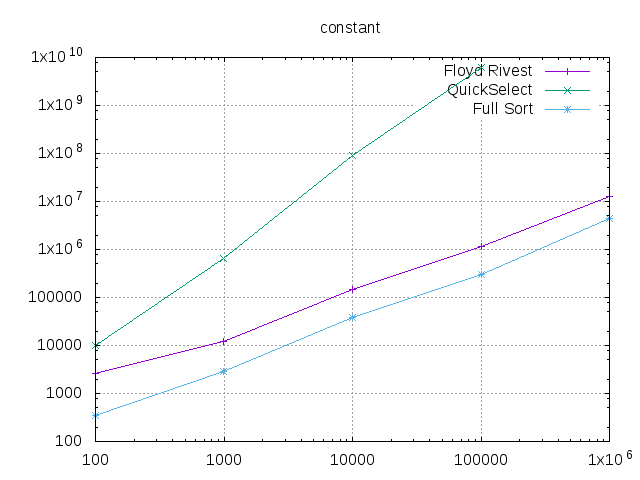
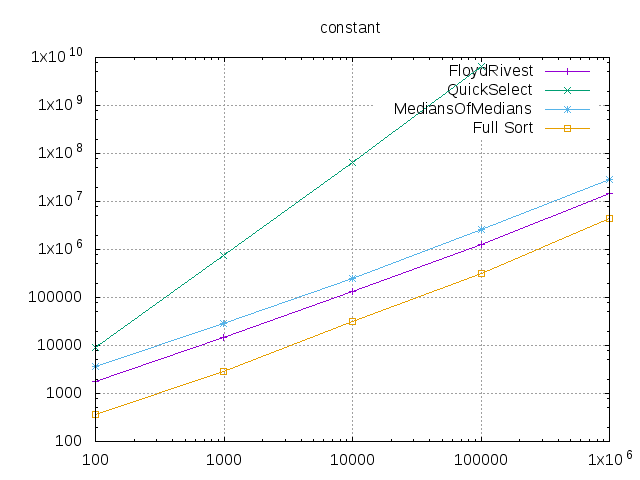
Add benchmarks for medians of medians

diff --git a/select_test.go b/select_test.go
@@ -56,7 +56,7 @@ func TestSelect_RandomArray (t * testing.T) {
 		},
 	}
 	for _, tc := range(testCases) {
-		nTests := 100
+		nTests := 20
 		for j := 0; j < nTests; j++ {
 			rand.Shuffle(len(a), func (i, j int) { a[i], a[j] = a[j], a[i] })
 			k := rand.Intn(len(a))

diff --git a/benchmark.md b/benchmark.md
@@ -1,91 +1,206 @@
 === RUN   TestSelect_BigArray
---- PASS: TestSelect_BigArray (2.13s)
+--- PASS: TestSelect_BigArray (2.03s)
 === RUN   TestSelect_RandomArray
---- FAIL: TestSelect_RandomArray (66.39s)
-    select_test.go:70: 
-        	Error Trace:	select_test.go:70
-        	Error:      	"%!s(int=5389254814162421340)" is not less or equal than "%!s(int=5164863782347237470)"
-        	Test:       	TestSelect_RandomArray
-    select_test.go:70: 
-        	Error Trace:	select_test.go:70
-        	Error:      	"%!s(int=3118384944041396407)" is not less or equal than "%!s(int=2948836900908679142)"
-        	Test:       	TestSelect_RandomArray
-    select_test.go:70: 
-        	Error Trace:	select_test.go:70
-        	Error:      	"%!s(int=5953651636353248300)" is not less or equal than "%!s(int=5953530255220003592)"
-        	Test:       	TestSelect_RandomArray
-    select_test.go:70: 
-        	Error Trace:	select_test.go:70
-        	Error:      	"%!s(int=5953651636353248300)" is not less or equal than "%!s(int=5887014842952965249)"
-        	Test:       	TestSelect_RandomArray
-    select_test.go:70: 
-        	Error Trace:	select_test.go:70
-        	Error:      	"%!s(int=5953651636353248300)" is not less or equal than "%!s(int=5891386772955824244)"
-        	Test:       	TestSelect_RandomArray
-    select_test.go:70: 
-        	Error Trace:	select_test.go:70
-        	Error:      	"%!s(int=354232545416404265)" is not less or equal than "%!s(int=351851047634048351)"
-        	Test:       	TestSelect_RandomArray
-    select_test.go:70: 
-        	Error Trace:	select_test.go:70
-        	Error:      	"%!s(int=6761986450204672517)" is not less or equal than "%!s(int=6761966678798676648)"
-        	Test:       	TestSelect_RandomArray
-    select_test.go:70: 
-        	Error Trace:	select_test.go:70
-        	Error:      	"%!s(int=6761986450204672517)" is not less or equal than "%!s(int=6659883027188078230)"
-        	Test:       	TestSelect_RandomArray
-    select_test.go:70: 
-        	Error Trace:	select_test.go:70
-        	Error:      	"%!s(int=6761986450204672517)" is not less or equal than "%!s(int=6406147687509410899)"
-        	Test:       	TestSelect_RandomArray
-    select_test.go:70: 
-        	Error Trace:	select_test.go:70
-        	Error:      	"%!s(int=8009354465552415646)" is not less or equal than "%!s(int=8003305591569397797)"
-        	Test:       	TestSelect_RandomArray
-    select_test.go:70: 
-        	Error Trace:	select_test.go:70
-        	Error:      	"%!s(int=8009354465552415646)" is not less or equal than "%!s(int=7816652851507926363)"
-        	Test:       	TestSelect_RandomArray
-    select_test.go:70: 
-        	Error Trace:	select_test.go:70
-        	Error:      	"%!s(int=6300501910532918856)" is not less or equal than "%!s(int=6296812723251062414)"
-        	Test:       	TestSelect_RandomArray
-    select_test.go:70: 
-        	Error Trace:	select_test.go:70
-        	Error:      	"%!s(int=7824293861803103776)" is not less or equal than "%!s(int=7823653005258300070)"
-        	Test:       	TestSelect_RandomArray
-    select_test.go:70: 
-        	Error Trace:	select_test.go:70
-        	Error:      	"%!s(int=4009327531050688858)" is not less or equal than "%!s(int=4008673713754862780)"
-        	Test:       	TestSelect_RandomArray
-    select_test.go:70: 
-        	Error Trace:	select_test.go:70
-        	Error:      	"%!s(int=4009327531050688858)" is not less or equal than "%!s(int=3750184133117793329)"
-        	Test:       	TestSelect_RandomArray
-    select_test.go:70: 
-        	Error Trace:	select_test.go:70
-        	Error:      	"%!s(int=7586385922064144189)" is not less or equal than "%!s(int=7586156523314073358)"
-        	Test:       	TestSelect_RandomArray
-    select_test.go:70: 
-        	Error Trace:	select_test.go:70
-        	Error:      	"%!s(int=8067333151748571251)" is not less or equal than "%!s(int=7863644404762597036)"
-        	Test:       	TestSelect_RandomArray
-    select_test.go:70: 
-        	Error Trace:	select_test.go:70
-        	Error:      	"%!s(int=5322964438956385452)" is not less or equal than "%!s(int=5309204099924948343)"
-        	Test:       	TestSelect_RandomArray
-    select_test.go:70: 
-        	Error Trace:	select_test.go:70
-        	Error:      	"%!s(int=2769079055563605479)" is not less or equal than "%!s(int=2634666321687766585)"
-        	Test:       	TestSelect_RandomArray
+--- PASS: TestSelect_RandomArray (202.90s)
 === RUN   TestSelect_ConcreteExamples
 --- PASS: TestSelect_ConcreteExamples (0.00s)
 === RUN   TestBucketsSize1
 --- PASS: TestBucketsSize1 (0.00s)
 === RUN   TestBucketsBig
---- PASS: TestBucketsBig (0.55s)
+--- PASS: TestBucketsBig (0.35s)
 === RUN   TestSelectVariousIndices
 --- PASS: TestSelectVariousIndices (0.00s)
-FAIL
-exit status 1
-FAIL	_/home/gabi/Gabi/apps/FloydRivest	69.083s
+goos: linux
+goarch: amd64
+BenchmarkBuckets/Size_100/Buckets_2/sorted/FloydRivest-4         	 5000000	       329 ns/op
+BenchmarkBuckets/Size_100/Buckets_2/sorted/QuickSelect-4         	 3000000	       500 ns/op
+BenchmarkBuckets/Size_100/Buckets_2/sorted/MediansOfMedians-4    	 1000000	      1938 ns/op
+BenchmarkBuckets/Size_100/Buckets_2/sorted/Full_Sort-4           	 1000000	      1020 ns/op
+BenchmarkBuckets/Size_100/Buckets_2/inverted/FloydRivest-4       	 3000000	       614 ns/op
+BenchmarkBuckets/Size_100/Buckets_2/inverted/QuickSelect-4       	 5000000	       393 ns/op
+BenchmarkBuckets/Size_100/Buckets_2/inverted/MediansOfMedians-4  	  500000	      2250 ns/op
+BenchmarkBuckets/Size_100/Buckets_2/inverted/Full_Sort-4         	 1000000	      1212 ns/op
+BenchmarkBuckets/Size_100/Buckets_2/constant/FloydRivest-4       	 3000000	       623 ns/op
+BenchmarkBuckets/Size_100/Buckets_2/constant/QuickSelect-4       	  300000	      4784 ns/op
+BenchmarkBuckets/Size_100/Buckets_2/constant/MediansOfMedians-4  	 2000000	       971 ns/op
+BenchmarkBuckets/Size_100/Buckets_2/constant/Full_Sort-4         	 5000000	       356 ns/op
+BenchmarkBuckets/Size_100/Buckets_2/sawLike/FloydRivest-4        	 1000000	      2070 ns/op
+BenchmarkBuckets/Size_100/Buckets_2/sawLike/QuickSelect-4        	  200000	      5982 ns/op
+BenchmarkBuckets/Size_100/Buckets_2/sawLike/MediansOfMedians-4   	 1000000	      2376 ns/op
+BenchmarkBuckets/Size_100/Buckets_2/sawLike/Full_Sort-4          	 1000000	      1745 ns/op
+BenchmarkBuckets/Size_100/Buckets_2/pyramid/FloydRivest-4        	  500000	      2129 ns/op
+BenchmarkBuckets/Size_100/Buckets_2/pyramid/QuickSelect-4        	  300000	      4006 ns/op
+BenchmarkBuckets/Size_100/Buckets_2/pyramid/MediansOfMedians-4   	  500000	      2276 ns/op
+BenchmarkBuckets/Size_100/Buckets_2/pyramid/Full_Sort-4          	 1000000	      1679 ns/op
+BenchmarkBuckets/Size_1000/Buckets_2/sorted/FloydRivest-4        	 1000000	      2179 ns/op
+BenchmarkBuckets/Size_1000/Buckets_2/sorted/QuickSelect-4        	  500000	      3380 ns/op
+BenchmarkBuckets/Size_1000/Buckets_2/sorted/MediansOfMedians-4   	  100000	     18503 ns/op
+BenchmarkBuckets/Size_1000/Buckets_2/sorted/Full_Sort-4          	  100000	     16038 ns/op
+BenchmarkBuckets/Size_1000/Buckets_2/inverted/FloydRivest-4      	  300000	      5283 ns/op
+BenchmarkBuckets/Size_1000/Buckets_2/inverted/QuickSelect-4      	  500000	      2340 ns/op
+BenchmarkBuckets/Size_1000/Buckets_2/inverted/MediansOfMedians-4 	   50000	     23069 ns/op
+BenchmarkBuckets/Size_1000/Buckets_2/inverted/Full_Sort-4        	  100000	     17628 ns/op
+BenchmarkBuckets/Size_1000/Buckets_2/constant/FloydRivest-4      	  300000	      5345 ns/op
+BenchmarkBuckets/Size_1000/Buckets_2/constant/QuickSelect-4      	    3000	    396092 ns/op
+BenchmarkBuckets/Size_1000/Buckets_2/constant/MediansOfMedians-4 	  200000	      8047 ns/op
+BenchmarkBuckets/Size_1000/Buckets_2/constant/Full_Sort-4        	  500000	      2980 ns/op
+BenchmarkBuckets/Size_1000/Buckets_2/sawLike/FloydRivest-4       	  100000	     18327 ns/op
+BenchmarkBuckets/Size_1000/Buckets_2/sawLike/QuickSelect-4       	  100000	     19245 ns/op
+BenchmarkBuckets/Size_1000/Buckets_2/sawLike/MediansOfMedians-4  	   50000	     28361 ns/op
+BenchmarkBuckets/Size_1000/Buckets_2/sawLike/Full_Sort-4         	  100000	     22470 ns/op
+BenchmarkBuckets/Size_1000/Buckets_2/pyramid/FloydRivest-4       	  100000	     15825 ns/op
+BenchmarkBuckets/Size_1000/Buckets_2/pyramid/QuickSelect-4       	    5000	    333007 ns/op
+BenchmarkBuckets/Size_1000/Buckets_2/pyramid/MediansOfMedians-4  	  100000	     22223 ns/op
+BenchmarkBuckets/Size_1000/Buckets_2/pyramid/Full_Sort-4         	   50000	     24113 ns/op
+BenchmarkBuckets/Size_10000/Buckets_2/sorted/FloydRivest-4       	  100000	     19064 ns/op
+BenchmarkBuckets/Size_10000/Buckets_2/sorted/QuickSelect-4       	   50000	     31898 ns/op
+BenchmarkBuckets/Size_10000/Buckets_2/sorted/MediansOfMedians-4  	    5000	    219732 ns/op
+BenchmarkBuckets/Size_10000/Buckets_2/sorted/Full_Sort-4         	    5000	    211897 ns/op
+BenchmarkBuckets/Size_10000/Buckets_2/inverted/FloydRivest-4     	   20000	     59667 ns/op
+BenchmarkBuckets/Size_10000/Buckets_2/inverted/QuickSelect-4     	  100000	     22277 ns/op
+BenchmarkBuckets/Size_10000/Buckets_2/inverted/MediansOfMedians-4         	    5000	    295454 ns/op
+BenchmarkBuckets/Size_10000/Buckets_2/inverted/Full_Sort-4                	   10000	    221310 ns/op
+BenchmarkBuckets/Size_10000/Buckets_2/constant/FloydRivest-4              	   30000	     51348 ns/op
+BenchmarkBuckets/Size_10000/Buckets_2/constant/QuickSelect-4              	      30	  38859274 ns/op
+BenchmarkBuckets/Size_10000/Buckets_2/constant/MediansOfMedians-4         	   20000	     83674 ns/op
+BenchmarkBuckets/Size_10000/Buckets_2/constant/Full_Sort-4                	   50000	     30528 ns/op
+BenchmarkBuckets/Size_10000/Buckets_2/sawLike/FloydRivest-4               	   10000	    170711 ns/op
+BenchmarkBuckets/Size_10000/Buckets_2/sawLike/QuickSelect-4               	    2000	    831234 ns/op
+BenchmarkBuckets/Size_10000/Buckets_2/sawLike/MediansOfMedians-4          	    3000	    417693 ns/op
+BenchmarkBuckets/Size_10000/Buckets_2/sawLike/Full_Sort-4                 	    3000	    395053 ns/op
+BenchmarkBuckets/Size_10000/Buckets_2/pyramid/FloydRivest-4               	   10000	    155860 ns/op
+BenchmarkBuckets/Size_10000/Buckets_2/pyramid/QuickSelect-4               	      50	  33136637 ns/op
+BenchmarkBuckets/Size_10000/Buckets_2/pyramid/MediansOfMedians-4          	    5000	    289409 ns/op
+BenchmarkBuckets/Size_10000/Buckets_2/pyramid/Full_Sort-4                 	    3000	    475837 ns/op
+BenchmarkBuckets/Size_100000/Buckets_2/sorted/FloydRivest-4               	   10000	    180758 ns/op
+BenchmarkBuckets/Size_100000/Buckets_2/sorted/QuickSelect-4               	    5000	    316600 ns/op
+BenchmarkBuckets/Size_100000/Buckets_2/sorted/MediansOfMedians-4          	     500	   2248004 ns/op
+BenchmarkBuckets/Size_100000/Buckets_2/sorted/Full_Sort-4                 	     500	   2675388 ns/op
+BenchmarkBuckets/Size_100000/Buckets_2/inverted/FloydRivest-4             	    3000	    531945 ns/op
+BenchmarkBuckets/Size_100000/Buckets_2/inverted/QuickSelect-4             	   10000	    219878 ns/op
+BenchmarkBuckets/Size_100000/Buckets_2/inverted/MediansOfMedians-4        	     500	   2934989 ns/op
+BenchmarkBuckets/Size_100000/Buckets_2/inverted/Full_Sort-4               	     500	   2720577 ns/op
+BenchmarkBuckets/Size_100000/Buckets_2/constant/FloydRivest-4             	    3000	    502491 ns/op
+BenchmarkBuckets/Size_100000/Buckets_2/constant/QuickSelect-4             	       1	3838834966 ns/op
+BenchmarkBuckets/Size_100000/Buckets_2/constant/MediansOfMedians-4        	    2000	    818808 ns/op
+BenchmarkBuckets/Size_100000/Buckets_2/constant/Full_Sort-4               	    5000	    339545 ns/op
+BenchmarkBuckets/Size_100000/Buckets_2/sawLike/FloydRivest-4              	    1000	   1530683 ns/op
+BenchmarkBuckets/Size_100000/Buckets_2/sawLike/QuickSelect-4              	      20	  70025528 ns/op
+BenchmarkBuckets/Size_100000/Buckets_2/sawLike/MediansOfMedians-4         	     500	   3763000 ns/op
+BenchmarkBuckets/Size_100000/Buckets_2/sawLike/Full_Sort-4                	     300	   4622953 ns/op
+BenchmarkBuckets/Size_100000/Buckets_2/pyramid/FloydRivest-4              	    1000	   1798858 ns/op
+BenchmarkBuckets/Size_100000/Buckets_2/pyramid/QuickSelect-4              	       1	3283231755 ns/op
+BenchmarkBuckets/Size_100000/Buckets_2/pyramid/MediansOfMedians-4         	     500	   2746343 ns/op
+BenchmarkBuckets/Size_100000/Buckets_2/pyramid/Full_Sort-4                	     300	   5458652 ns/op
+BenchmarkBuckets/Size_1000000/Buckets_2/sorted/FloydRivest-4              	     500	   3194111 ns/op
+BenchmarkBuckets/Size_1000000/Buckets_2/sorted/MediansOfMedians-4         	      50	  24468857 ns/op
+BenchmarkBuckets/Size_1000000/Buckets_2/sorted/Full_Sort-4                	      50	  35273159 ns/op
+BenchmarkBuckets/Size_1000000/Buckets_2/inverted/FloydRivest-4            	     200	   6420309 ns/op
+BenchmarkBuckets/Size_1000000/Buckets_2/inverted/MediansOfMedians-4       	      50	  31913540 ns/op
+BenchmarkBuckets/Size_1000000/Buckets_2/inverted/Full_Sort-4              	      30	  34985199 ns/op
+BenchmarkBuckets/Size_1000000/Buckets_2/constant/FloydRivest-4            	     200	   6756253 ns/op
+BenchmarkBuckets/Size_1000000/Buckets_2/constant/MediansOfMedians-4       	     100	  10429917 ns/op
+BenchmarkBuckets/Size_1000000/Buckets_2/constant/Full_Sort-4              	     300	   4475777 ns/op
+BenchmarkBuckets/Size_1000000/Buckets_2/sawLike/FloydRivest-4             	     100	  17137465 ns/op
+BenchmarkBuckets/Size_1000000/Buckets_2/sawLike/MediansOfMedians-4        	      30	  37368072 ns/op
+BenchmarkBuckets/Size_1000000/Buckets_2/sawLike/Full_Sort-4               	      20	  54626318 ns/op
+BenchmarkBuckets/Size_1000000/Buckets_2/pyramid/FloydRivest-4             	     100	  19629649 ns/op
+BenchmarkBuckets/Size_1000000/Buckets_2/pyramid/MediansOfMedians-4        	      50	  28721116 ns/op
+BenchmarkBuckets/Size_1000000/Buckets_2/pyramid/Full_Sort-4               	      20	  62902046 ns/op
+BenchmarkBuckets/Size_100/Buckets_9/sorted/FloydRivest-4                  	 1000000	      1073 ns/op
+BenchmarkBuckets/Size_100/Buckets_9/sorted/QuickSelect-4                  	 1000000	      1420 ns/op
+BenchmarkBuckets/Size_100/Buckets_9/sorted/MediansOfMedians-4             	  200000	      7251 ns/op
+BenchmarkBuckets/Size_100/Buckets_9/sorted/Full_Sort-4                    	 1000000	      1025 ns/op
+BenchmarkBuckets/Size_100/Buckets_9/inverted/FloydRivest-4                	 1000000	      1427 ns/op
+BenchmarkBuckets/Size_100/Buckets_9/inverted/QuickSelect-4                	 1000000	      2018 ns/op
+BenchmarkBuckets/Size_100/Buckets_9/inverted/MediansOfMedians-4           	  200000	      7309 ns/op
+BenchmarkBuckets/Size_100/Buckets_9/inverted/Full_Sort-4                  	 1000000	      1301 ns/op
+BenchmarkBuckets/Size_100/Buckets_9/constant/FloydRivest-4                	 1000000	      1801 ns/op
+BenchmarkBuckets/Size_100/Buckets_9/constant/QuickSelect-4                	  200000	      9223 ns/op
+BenchmarkBuckets/Size_100/Buckets_9/constant/MediansOfMedians-4           	  500000	      3692 ns/op
+BenchmarkBuckets/Size_100/Buckets_9/constant/Full_Sort-4                  	 5000000	       359 ns/op
+BenchmarkBuckets/Size_100/Buckets_9/sawLike/FloydRivest-4                 	  500000	      3214 ns/op
+BenchmarkBuckets/Size_100/Buckets_9/sawLike/QuickSelect-4                 	  200000	     10575 ns/op
+BenchmarkBuckets/Size_100/Buckets_9/sawLike/MediansOfMedians-4            	  300000	      4816 ns/op
+BenchmarkBuckets/Size_100/Buckets_9/sawLike/Full_Sort-4                   	 1000000	      1723 ns/op
+BenchmarkBuckets/Size_100/Buckets_9/pyramid/FloydRivest-4                 	  500000	      2982 ns/op
+BenchmarkBuckets/Size_100/Buckets_9/pyramid/QuickSelect-4                 	  300000	      5731 ns/op
+BenchmarkBuckets/Size_100/Buckets_9/pyramid/MediansOfMedians-4            	  200000	      6119 ns/op
+BenchmarkBuckets/Size_100/Buckets_9/pyramid/Full_Sort-4                   	 1000000	      1727 ns/op
+BenchmarkBuckets/Size_1000/Buckets_9/sorted/FloydRivest-4                 	  200000	      5793 ns/op
+BenchmarkBuckets/Size_1000/Buckets_9/sorted/QuickSelect-4                 	  200000	      9146 ns/op
+BenchmarkBuckets/Size_1000/Buckets_9/sorted/MediansOfMedians-4            	   20000	     98961 ns/op
+BenchmarkBuckets/Size_1000/Buckets_9/sorted/Full_Sort-4                   	  100000	     18871 ns/op
+BenchmarkBuckets/Size_1000/Buckets_9/inverted/FloydRivest-4               	  200000	     10437 ns/op
+BenchmarkBuckets/Size_1000/Buckets_9/inverted/QuickSelect-4               	  100000	     15448 ns/op
+BenchmarkBuckets/Size_1000/Buckets_9/inverted/MediansOfMedians-4          	   10000	    111839 ns/op
+BenchmarkBuckets/Size_1000/Buckets_9/inverted/Full_Sort-4                 	  100000	     18188 ns/op
+BenchmarkBuckets/Size_1000/Buckets_9/constant/FloydRivest-4               	  100000	     14449 ns/op
+BenchmarkBuckets/Size_1000/Buckets_9/constant/QuickSelect-4               	    2000	    747933 ns/op
+BenchmarkBuckets/Size_1000/Buckets_9/constant/MediansOfMedians-4          	   50000	     28270 ns/op
+BenchmarkBuckets/Size_1000/Buckets_9/constant/Full_Sort-4                 	  500000	      2903 ns/op
+BenchmarkBuckets/Size_1000/Buckets_9/sawLike/FloydRivest-4                	   50000	     28684 ns/op
+BenchmarkBuckets/Size_1000/Buckets_9/sawLike/QuickSelect-4                	   20000	     65107 ns/op
+BenchmarkBuckets/Size_1000/Buckets_9/sawLike/MediansOfMedians-4           	   20000	     68438 ns/op
+BenchmarkBuckets/Size_1000/Buckets_9/sawLike/Full_Sort-4                  	   50000	     23969 ns/op
+BenchmarkBuckets/Size_1000/Buckets_9/pyramid/FloydRivest-4                	   50000	     26203 ns/op
+BenchmarkBuckets/Size_1000/Buckets_9/pyramid/QuickSelect-4                	    3000	    374565 ns/op
+BenchmarkBuckets/Size_1000/Buckets_9/pyramid/MediansOfMedians-4           	   20000	     93686 ns/op
+BenchmarkBuckets/Size_1000/Buckets_9/pyramid/Full_Sort-4                  	   50000	     23470 ns/op
+BenchmarkBuckets/Size_10000/Buckets_9/sorted/FloydRivest-4                	   30000	     50958 ns/op
+BenchmarkBuckets/Size_10000/Buckets_9/sorted/QuickSelect-4                	   20000	     75241 ns/op
+BenchmarkBuckets/Size_10000/Buckets_9/sorted/MediansOfMedians-4           	    2000	    962397 ns/op
+BenchmarkBuckets/Size_10000/Buckets_9/sorted/Full_Sort-4                  	    5000	    214453 ns/op
+BenchmarkBuckets/Size_10000/Buckets_9/inverted/FloydRivest-4              	   10000	    114477 ns/op
+BenchmarkBuckets/Size_10000/Buckets_9/inverted/QuickSelect-4              	   10000	    138292 ns/op
+BenchmarkBuckets/Size_10000/Buckets_9/inverted/MediansOfMedians-4         	    2000	   1143170 ns/op
+BenchmarkBuckets/Size_10000/Buckets_9/inverted/Full_Sort-4                	   10000	    226401 ns/op
+BenchmarkBuckets/Size_10000/Buckets_9/constant/FloydRivest-4              	   10000	    131233 ns/op
+BenchmarkBuckets/Size_10000/Buckets_9/constant/QuickSelect-4              	      20	  64673112 ns/op
+BenchmarkBuckets/Size_10000/Buckets_9/constant/MediansOfMedians-4         	    5000	    254609 ns/op
+BenchmarkBuckets/Size_10000/Buckets_9/constant/Full_Sort-4                	   50000	     30973 ns/op
+BenchmarkBuckets/Size_10000/Buckets_9/sawLike/FloydRivest-4               	    5000	    331728 ns/op
+BenchmarkBuckets/Size_10000/Buckets_9/sawLike/QuickSelect-4               	    2000	    980751 ns/op
+BenchmarkBuckets/Size_10000/Buckets_9/sawLike/MediansOfMedians-4          	    1000	   1097530 ns/op
+BenchmarkBuckets/Size_10000/Buckets_9/sawLike/Full_Sort-4                 	    5000	    403028 ns/op
+BenchmarkBuckets/Size_10000/Buckets_9/pyramid/FloydRivest-4               	    5000	    271288 ns/op
+BenchmarkBuckets/Size_10000/Buckets_9/pyramid/QuickSelect-4               	      50	  35488573 ns/op
+BenchmarkBuckets/Size_10000/Buckets_9/pyramid/MediansOfMedians-4          	    1000	   1054028 ns/op
+BenchmarkBuckets/Size_10000/Buckets_9/pyramid/Full_Sort-4                 	    3000	    469014 ns/op
+BenchmarkBuckets/Size_100000/Buckets_9/sorted/FloydRivest-4               	    3000	    492982 ns/op
+BenchmarkBuckets/Size_100000/Buckets_9/sorted/QuickSelect-4               	    2000	    774609 ns/op
+BenchmarkBuckets/Size_100000/Buckets_9/sorted/MediansOfMedians-4          	     200	   9077853 ns/op
+BenchmarkBuckets/Size_100000/Buckets_9/sorted/Full_Sort-4                 	     500	   2618391 ns/op
+BenchmarkBuckets/Size_100000/Buckets_9/inverted/FloydRivest-4             	    1000	   1508012 ns/op
+BenchmarkBuckets/Size_100000/Buckets_9/inverted/QuickSelect-4             	    1000	   1471574 ns/op
+BenchmarkBuckets/Size_100000/Buckets_9/inverted/MediansOfMedians-4        	     100	  11010690 ns/op
+BenchmarkBuckets/Size_100000/Buckets_9/inverted/Full_Sort-4               	     500	   2795547 ns/op
+BenchmarkBuckets/Size_100000/Buckets_9/constant/FloydRivest-4             	    1000	   1251313 ns/op
+BenchmarkBuckets/Size_100000/Buckets_9/constant/QuickSelect-4             	       1	6562353297 ns/op
+BenchmarkBuckets/Size_100000/Buckets_9/constant/MediansOfMedians-4        	     500	   2622072 ns/op
+BenchmarkBuckets/Size_100000/Buckets_9/constant/Full_Sort-4               	    5000	    313915 ns/op
+BenchmarkBuckets/Size_100000/Buckets_9/sawLike/FloydRivest-4              	     500	   2595677 ns/op
+BenchmarkBuckets/Size_100000/Buckets_9/sawLike/QuickSelect-4              	      20	  70853547 ns/op
+BenchmarkBuckets/Size_100000/Buckets_9/sawLike/MediansOfMedians-4         	     100	  11634844 ns/op
+BenchmarkBuckets/Size_100000/Buckets_9/sawLike/Full_Sort-4                	     300	   4716785 ns/op
+BenchmarkBuckets/Size_100000/Buckets_9/pyramid/FloydRivest-4              	     500	   3197220 ns/op
+BenchmarkBuckets/Size_100000/Buckets_9/pyramid/QuickSelect-4              	       1	3521833317 ns/op
+BenchmarkBuckets/Size_100000/Buckets_9/pyramid/MediansOfMedians-4         	     100	  10864595 ns/op
+BenchmarkBuckets/Size_100000/Buckets_9/pyramid/Full_Sort-4                	     300	   5709329 ns/op
+BenchmarkBuckets/Size_1000000/Buckets_9/sorted/FloydRivest-4              	     200	   6335975 ns/op
+BenchmarkBuckets/Size_1000000/Buckets_9/sorted/MediansOfMedians-4         	      20	  91123583 ns/op
+BenchmarkBuckets/Size_1000000/Buckets_9/sorted/Full_Sort-4                	      50	  33057943 ns/op
+BenchmarkBuckets/Size_1000000/Buckets_9/inverted/FloydRivest-4            	      50	  27849480 ns/op
+BenchmarkBuckets/Size_1000000/Buckets_9/inverted/MediansOfMedians-4       	      10	 107205470 ns/op
+BenchmarkBuckets/Size_1000000/Buckets_9/inverted/Full_Sort-4              	      50	  34208184 ns/op
+BenchmarkBuckets/Size_1000000/Buckets_9/constant/FloydRivest-4            	     100	  14349266 ns/op
+BenchmarkBuckets/Size_1000000/Buckets_9/constant/MediansOfMedians-4       	      50	  28909375 ns/op
+BenchmarkBuckets/Size_1000000/Buckets_9/constant/Full_Sort-4              	     300	   4506115 ns/op
+BenchmarkBuckets/Size_1000000/Buckets_9/sawLike/FloydRivest-4             	      50	  21606311 ns/op
+BenchmarkBuckets/Size_1000000/Buckets_9/sawLike/MediansOfMedians-4        	      10	 112759341 ns/op
+BenchmarkBuckets/Size_1000000/Buckets_9/sawLike/Full_Sort-4               	      30	  56235507 ns/op
+BenchmarkBuckets/Size_1000000/Buckets_9/pyramid/FloydRivest-4             	      30	  43490190 ns/op
+BenchmarkBuckets/Size_1000000/Buckets_9/pyramid/MediansOfMedians-4        	      10	 100515892 ns/op
+BenchmarkBuckets/Size_1000000/Buckets_9/pyramid/Full_Sort-4               	      20	  61102020 ns/op
+PASS
+ok  	_/home/gabi/Gabi/apps/FloydRivest	540.588s
